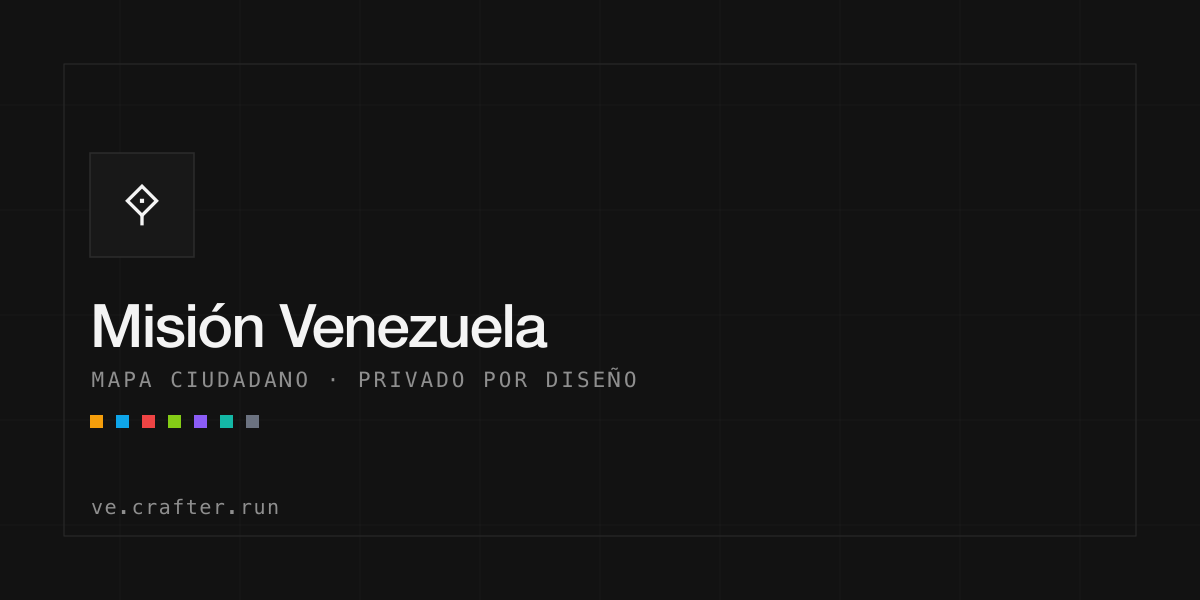
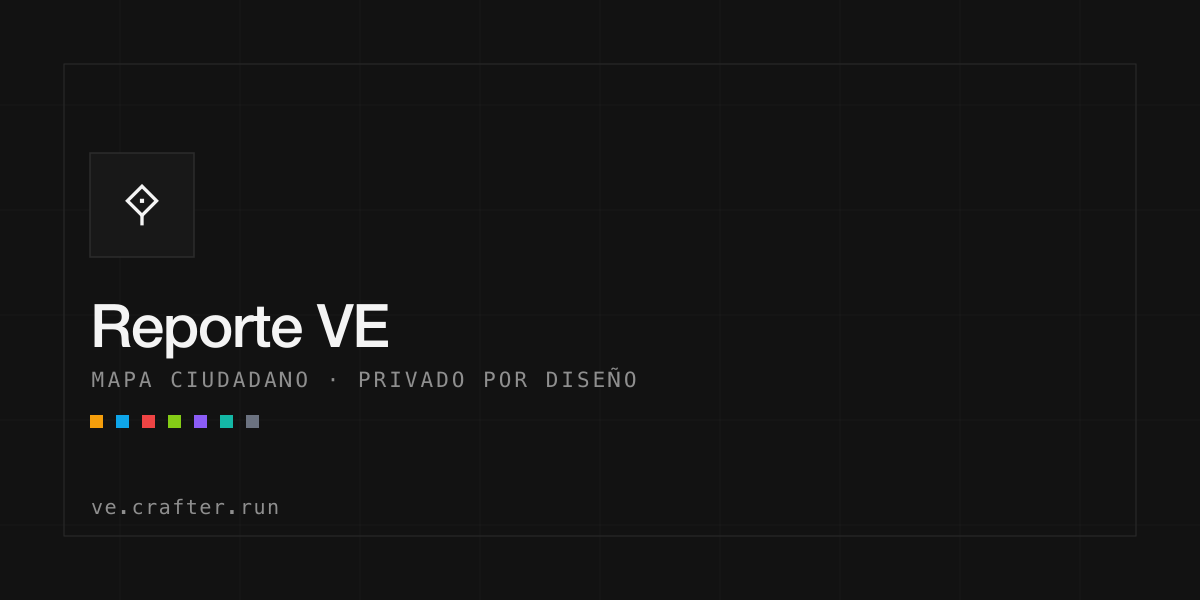
chore(assets): regenerate brand assets and docs for Reporte VE

Changed region(s): [[0.0617, 0.51, 0.4625, 0.6]]

diff --git a/scripts/generate-assets.ts b/scripts/generate-assets.ts
@@ -1,8 +1,8 @@
 /**
- * Brand asset generator — Misión Venezuela.
+ * Brand asset generator — Reporte VE.
  *
  * Renders the OpenGraph / Twitter share cards and the multi-size favicon from
- * the same source of truth as the app: the MissionMark glyph and the dark,
+ * the same source of truth as the app: the BrandMark glyph and the dark,
  * monochrome design tokens. Pure SVG → PNG via sharp, so output stays crisp.
  *
  * Idempotent: re-run any time the brand changes.
@@ -41,8 +41,8 @@ const CATEGORY_COLORS = [
 ];
 
 /**
- * The MissionMark glyph (square diamond pin + beacon + stem), as inner SVG.
- * Mirrors src/components/mission-mark.tsx. `t`/`s` place it inside a 24-unit
+ * The BrandMark glyph (square diamond pin + beacon + stem), as inner SVG.
+ * Mirrors src/components/brand-mark.tsx. `t`/`s` place it inside a 24-unit
  * box; `stroke`/`w` control colour and weight.
  */
 function markPaths(stroke: string, w = 1.6): string {
@@ -105,7 +105,7 @@ function cardSvg(width: number, height: number): string {
   <!-- wordmark -->
   <text x="${cx}" y="${titleY}" fill="${C.fg}"
     font-family="'Helvetica Neue', Helvetica, Arial, sans-serif"
-    font-size="60" font-weight="600" letter-spacing="-1.5">Misión Venezuela</text>
+    font-size="60" font-weight="600" letter-spacing="-1.5">Reporte VE</text>
 
   <!-- tagline -->
   <text x="${cx + 2}" y="${tagY}" fill="${C.muted}"

diff --git a/README.md b/README.md
@@ -1,4 +1,4 @@
-# 🇻🇪 Misión Venezuela
+# 🇻🇪 Reporte VE
 
 **An open-source, privacy-first citizen platform for mapping service outages and
 shortages across Venezuela** — electricity and water cuts, and shortages of